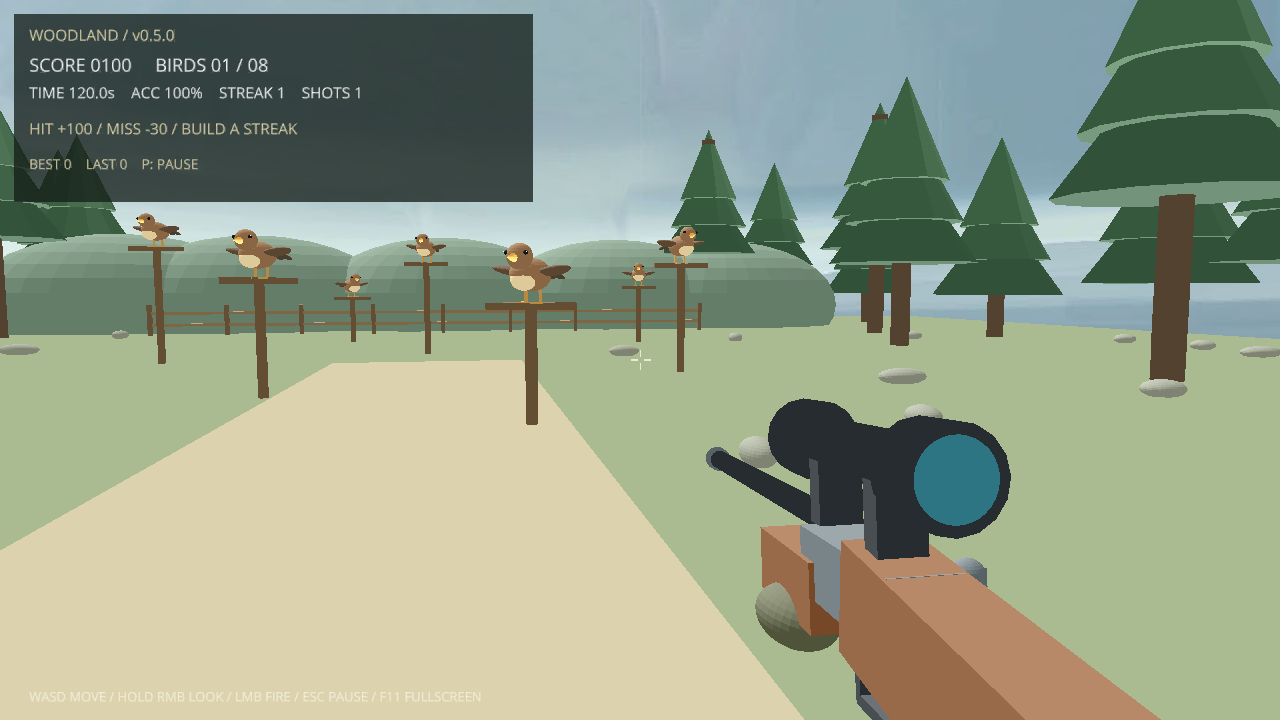
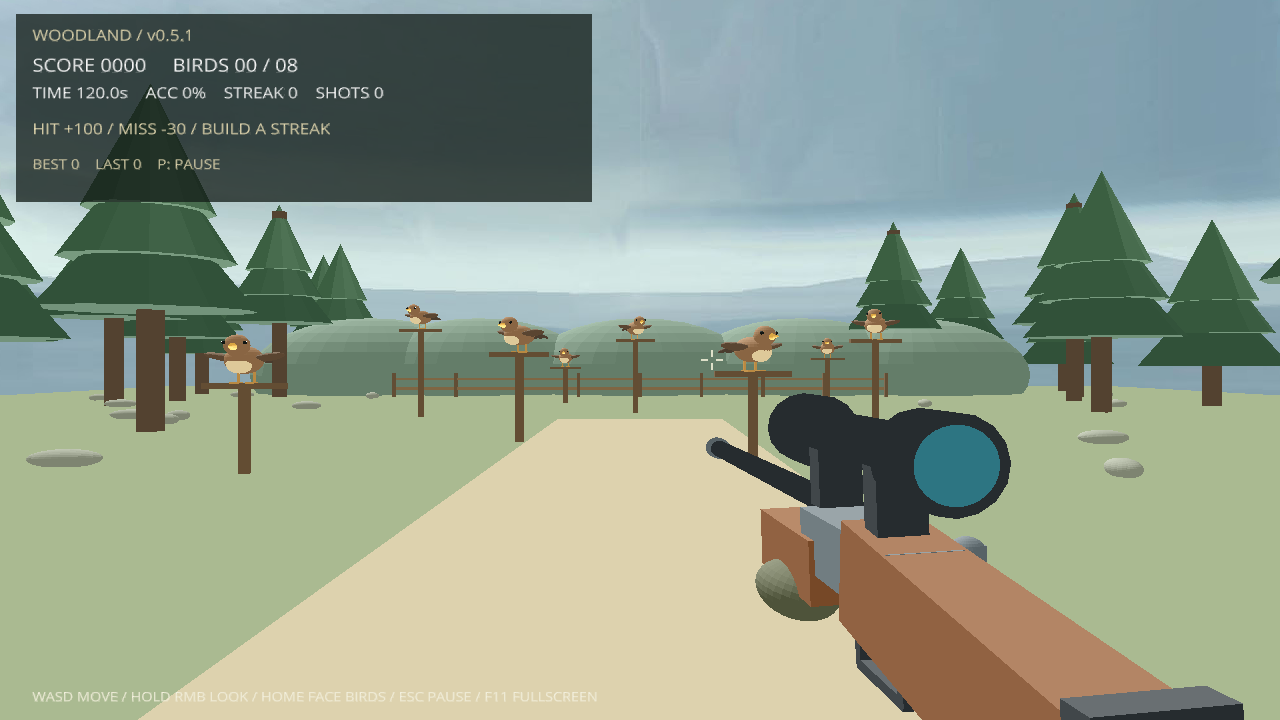
Fix v0.5.1 false auto-pause, Continue and target visibility regressions

diff --git a/src/minifps.py b/src/minifps.py
@@ -22,7 +22,7 @@ from ursina.models.procedural.cone import Cone
 from ursina.prefabs.first_person_controller import FirstPersonController
 from ursina.shaders import lit_with_shadows_shader
 
-VERSION = '0.5.0'
+VERSION = '0.5.1'
 SAVE_FORMAT = 1
 RULESET = 'woodland-scoring-1'
 SLOTS = [(-6, 2, 3), (-3, 2.6, 8), (2, 2.2, 4), (6, 3, 11),
@@ -435,7 +435,8 @@ def choose_save_file(save=False):
 
 
 def main():
-    smoke_test = '--smoke-test' in sys.argv
+    movement_test = '--movement-smoke-test' in sys.argv
+    smoke_test = '--smoke-test' in sys.argv or movement_test
     app = Ursina(title=f'MiniFPS | Woodland v{VERSION}', borderless=False, fullscreen=False,
                  size=(1280, 720), development_mode=False)
     # 统一交给游戏处理 F11，避免引擎调试快捷键和自定义逻辑各切换一次。
@@ -633,7 +634,7 @@ def main():
                       ((0, -.009), (.0015, .009)), ((0, .009), (.0015, .009))]:
         Entity(parent=reticle, model='quad', position=pos, scale=size,
                color=color.rgba32(245, 242, 219, 215))
-    Text('WASD MOVE / HOLD RMB LOOK / LMB FIRE / ESC PAUSE / F11 FULLSCREEN',
+    Text('WASD MOVE / HOLD RMB LOOK / HOME FACE BIRDS / ESC PAUSE / F11 FULLSCREEN',
          parent=hud, position=(-.85, -.46), scale=.72, color=tint(242, 239, 220))
     toast = Text(parent=camera.ui, origin=(0, 0), position=(.3, .45), z=-.4,
                  scale=.8, color=tint(242, 225, 170), enabled=False)
@@ -661,9 +662,10 @@ def main():
     display_button = button('FULLSCREEN / F11', 0, -.275)
     about_button = button('ABOUT / F1', .40, -.275)
     exit_button = button('SAVE & EXIT', 0, -.35)
+    face_button = button('FACE BIRDS / HOME', -.40, -.35)
     back_button = button('BACK / ESC', .40, -.35)
     buttons = [primary, restart_button, history_button, save_button, load_button,
-               export_button, import_button, display_button, about_button, exit_button, back_button]
+               export_button, import_button, display_button, about_button, exit_button, face_button, back_button]
     game = GameRound()
     recoil = sway_time = 0
     notice = initial_notice
@@ -792,7 +794,7 @@ def main():
                             f'Save format {SAVE_FORMAT}; local saves remain compatible with v0.4.0.\n\n'
                             'F11 / Alt+Enter: fullscreen or windowed.\n'
                             'Windowed: hold RMB to look; release to free the cursor.\n'
-                            'ESC / P: pause or resume. F5 save; F9 load.\n'
+                            'ESC / P: pause; HOME: face birds. F5 save; F9 load.\n'
                             'Source: github.com/Tao-ingenieur/minifps')
         elif mode == 'history':
             primary.text = 'BACK TO MENU'
@@ -931,7 +933,9 @@ def main():
             resume_round()
         elif game.state == 'ready' and saved_session:
             restore_session(saved_session)
-            notify('Save restored. Press P or ENTER to resume.')
+            # 点击 CONTINUE 已经表达继续意图，不再要求多按一次才能移动。
+            resume_round()
+            notify('Save continued. WASD moves; HOME faces a remaining bird.')
         elif game.state != 'playing':
             start_round()
 
@@ -1036,6 +1040,20 @@ def main():
         mouse.visible = True
         application.quit()
 
+    def face_birds():
+        if game.state not in ('playing', 'paused') or not birds:
+            notify('Start or continue a round first. HOME faces a remaining bird.')
+            return
+        target = min(birds, key=lambda bird: (bird.world_position - camera.world_position).length())
+        direction = target.world_position - camera.world_position
+        player.rotation_y = math.degrees(math.atan2(direction.x, direction.z))
+        horizontal = math.hypot(direction.x, direction.z)
+        player.camera_pivot.rotation_x = max(-70, min(70, -math.degrees(math.atan2(direction.y, horizontal))))
+        mouse.velocity = Vec3(0, 0, 0)
+        if game.state == 'paused':
+            resume_round()
+        notify('Facing a remaining bird. Hold RMB to look around.')
+
     restart_button.on_click = request_restart
     history_button.on_click = lambda: (pause_round(), show_menu('history'))
     save_button.on_click = save_quick
@@ -1046,6 +1064,7 @@ def main():
         'Save progress and close MiniFPS? You can continue next time.', exit_game)
     display_button.on_click = toggle_fullscreen
     about_button.on_click = lambda: (pause_round(), show_menu('about'))
+    face_button.on_click = face_birds
 
     def shoot(now=None):
         nonlocal recoil
@@ -1098,6 +1117,8 @@ def main():
                 show_menu()  # ESC 在首页或结算页也不退出。
         elif key == 'r':
             request_restart()
+        elif key == 'home':
+            face_birds()
         elif key == 'enter' and game.state != 'playing':
             primary_action()
         elif key == 'f5':
@@ -1129,10 +1150,11 @@ def main():
         if game.state == 'timeout':
             finish_round()
             return
-        if not smoke_test and (not app.win.getProperties().getForeground() or
-                               (not window.fullscreen and not looking and mouse.is_outside)):
+        # 自由鼠标模式下 has_mouse() 可在窗口仍有焦点时返回 False。
+        # 只以真实失焦暂停；鼠标移出不能把正常的 WASD 输入停掉。
+        if not smoke_test and not app.win.getProperties().getForeground():
             pause_round()
-            notify('Cursor left the window or focus lost. Paused; cursor released.')
+            notify('Window lost focus. Paused; cursor released.')
             return
         sync_pointer()
         if now >= next_autosave:
@@ -1229,6 +1251,12 @@ def main():
                 snapshot = store.read(store.quick)
                 assert snapshot['session']['round']['hits'] == 1
                 assert len(snapshot['session']['birds']) == 7
+                game = GameRound()
+                saved_session = snapshot['session']
+                show_menu()
+                primary_action()
+                assert game.state == 'playing' and not player.ignore and not menu.enabled
+                assert game.score == 100 and len(birds) == 7
                 saved_score = game.score
                 request_restart()
                 assert menu_mode == 'confirm' and game.state == 'paused'
@@ -1288,7 +1316,87 @@ def main():
                 traceback.print_exc()
                 sys.exit(1)
             application.quit()
-        invoke(verify, delay=1)
+        def movement_verify():
+            from panda3d.core import Point2
+            # 不直接调用 player.update：让真正的引擎帧循环消费 raw WASD 输入。
+            cases = [('w', 2, 1), ('s', 2, -1), ('a', 0, -1), ('d', 0, 1)]
+            modes = [False, True] if '--display-smoke-test' in sys.argv and window.main_monitor else [False]
+            origin = Vec3(0, 0, -10)
+
+            def later(callback, delay=.35):
+                def run(task):
+                    try:
+                        callback()
+                    except Exception:
+                        import traceback
+                        traceback.print_exc()
+                        sys.exit(1)
+                    return task.done
+                app.taskMgr.doMethodLater(delay, run, 'movement-check-' + uuid.uuid4().hex)
+
+            def visible_birds():
+                count = 0
+                for bird in birds:
+                    projected = Point2()
+                    point = app.cam.getRelativePoint(scene, bird.world_position)
+                    if camera.lens.project(point, projected) and abs(projected.x) <= 1 and abs(projected.y) <= 1:
+                        count += 1
+                return count
+
+            def enter_case(mode_index, index):
+                if index == 4:
+                    if mode_index + 1 < len(modes):
+                        enter_mode(mode_index + 1)
+                    else:
+                        finish()
+                    return
+                player.position = origin
+                player.rotation = player.camera_pivot.rotation = (0, 0, 0)
+                mouse.velocity = Vec3(0, 0, 0)
+                key, axis, sign = cases[index]
+                app.input(key, is_raw=True)
+                def measure():
+                    app.input_up(key, is_raw=True)
+                    delta = player.position[axis] - origin[axis]
+                    assert game.state == 'playing' and not player.ignore, 'Movement unexpectedly paused'
+                    assert delta * sign > .25, f'{key.upper()} failed to move: delta={delta}'
+                    assert len(birds) == 8 and visible_birds() >= 5, 'Birds disappeared from the field'
+                    print(f'MOVEMENT PASS {"fullscreen" if modes[mode_index] else "windowed"} '
+                          f'{key.upper()}: {delta:.3f}, visible birds={visible_birds()}', flush=True)
+                    enter_case(mode_index, index + 1)
+                later(measure)
+
+            def enter_mode(mode_index):
+                if window.fullscreen != modes[mode_index]:
+                    toggle_fullscreen()
+                start_round()
+                later(lambda: enter_case(mode_index, 0), .2)
+
+            def finish():
+                if window.fullscreen:
+                    toggle_fullscreen()
+                start_round()
+                assert visible_birds() == 8, 'Fresh round must show all 8 birds'
+                if '--screenshot' in sys.argv:
+                    screenshot(sys.argv[sys.argv.index('--screenshot') + 1])
+                # 模拟旧存档朝向天空或背后：Home 必须能找回真实目标，且不清分。
+                saved_score, saved_id = game.score, game.round_id
+                player.rotation_y = 180
+                player.camera_pivot.rotation_x = 80
+                handle_input('home')
+                assert visible_birds() >= 1 and game.score == saved_score and game.round_id == saved_id
+                assert not mouse.locked and mouse.visible
+                handle_input('escape')
+                assert game.state == 'paused' and player.ignore
+                handle_input('escape')
+                assert game.state == 'playing' and not player.ignore
+                print('MOVEMENT SMOKE PASSED: real-frame WASD, 8 visible birds, Home and ESC', flush=True)
+                application.quit()
+
+            enter_mode(0)
+
+        invoke(movement_verify if movement_test else verify, delay=1)
+
     app.run()
 
 

diff --git a/CHANGELOG.md b/CHANGELOG.md
@@ -2,6 +2,20 @@
 
 所有面向玩家的变化都记录在此文件。版本采用 `主版本.次版本.修订版本`；新功能增加次版本，兼容修复增加修订版本。
 
+## [0.5.1] - 2026-10-20
+
+### 修正
+- 修复窗口模式开始后立即误暂停、WASD 看似失效的问题：自由鼠标下 `has_mouse()` 可能返回 False，即使窗口仍有焦点；不再以“鼠标离窗”作为自动暂停条件，仅真实失焦时暂停。
+- 移除误暂停菜单对靶场的遮挡；新局从出生点朝向靶场，验证 8 只鸟都在初始视野中。
+- 主菜单 CONTINUE 恢复存档后直接继续游玩，避免恢复后还需要再按一次继续，造成移动无响应的错觉。F9 / 导入恢复仍保留暂停确认。
+- 增加 HOME / FACE BIRDS，在不重开、不改分数和位置的情况下朝向最近的剩余小鸟，方便从旧存档或偏离的视角找回目标。
+
+### 验证改进
+- 新增 `--movement-smoke-test`：通过 raw WASD 输入和真实引擎帧循环持续移动，不再只检查菜单状态或直接调用一次移动函数。
+- 窗口、全屏分别验证 W、S、A、D 四方向位移；每次移动检查目标仍在视野，新局确认 8 只鸟可见。
+- 验证 Home 从背向/仰视状态找回目标，保留当前局分数与局标识；检查 ESC 暂停/继续及 CONTINUE 恢复后可操作。
+- 29 项积分/存档回归测试继续通过，存档格式仍为 1。
+
 ## [0.5.0] - 2026-10-20
 
 ### 新增
@@ -96,3 +110,5 @@
 [0.4.0]: https://github.com/Tao-ingenieur/minifps/compare/v0.3.0...v0.4.0
 
 [0.5.0]: https://github.com/Tao-ingenieur/minifps/compare/v0.4.0...v0.5.0
+
+[0.5.1]: https://github.com/Tao-ingenieur/minifps/compare/v0.5.0...v0.5.1

diff --git a/CONTRIBUTING.md b/CONTRIBUTING.md
@@ -21,3 +21,5 @@
 存档或档案功能的变更必须通过 `tests/test_persistence.py`。保持旧版本格式兼容，或显式提高格式版本并提供清晰报错；不能静默清空最高分。自检应使用独立测试目录，不可读写真实玩家数据。
 
 显示与输入变更须验证 ESC 不会退出、窗口模式能释放鼠标、About 版本号正确，执行 `--smoke-test --display-smoke-test` 检查 F11 / Alt+Enter 和窗口尺寸恢复。
+
+移动或视角变更还须运行 `--movement-smoke-test --display-smoke-test`，通过真实引擎帧与 raw WASD 输入验证四方向移动及目标可见性，不能仅以菜单/状态自检代替游玩循环验证。
